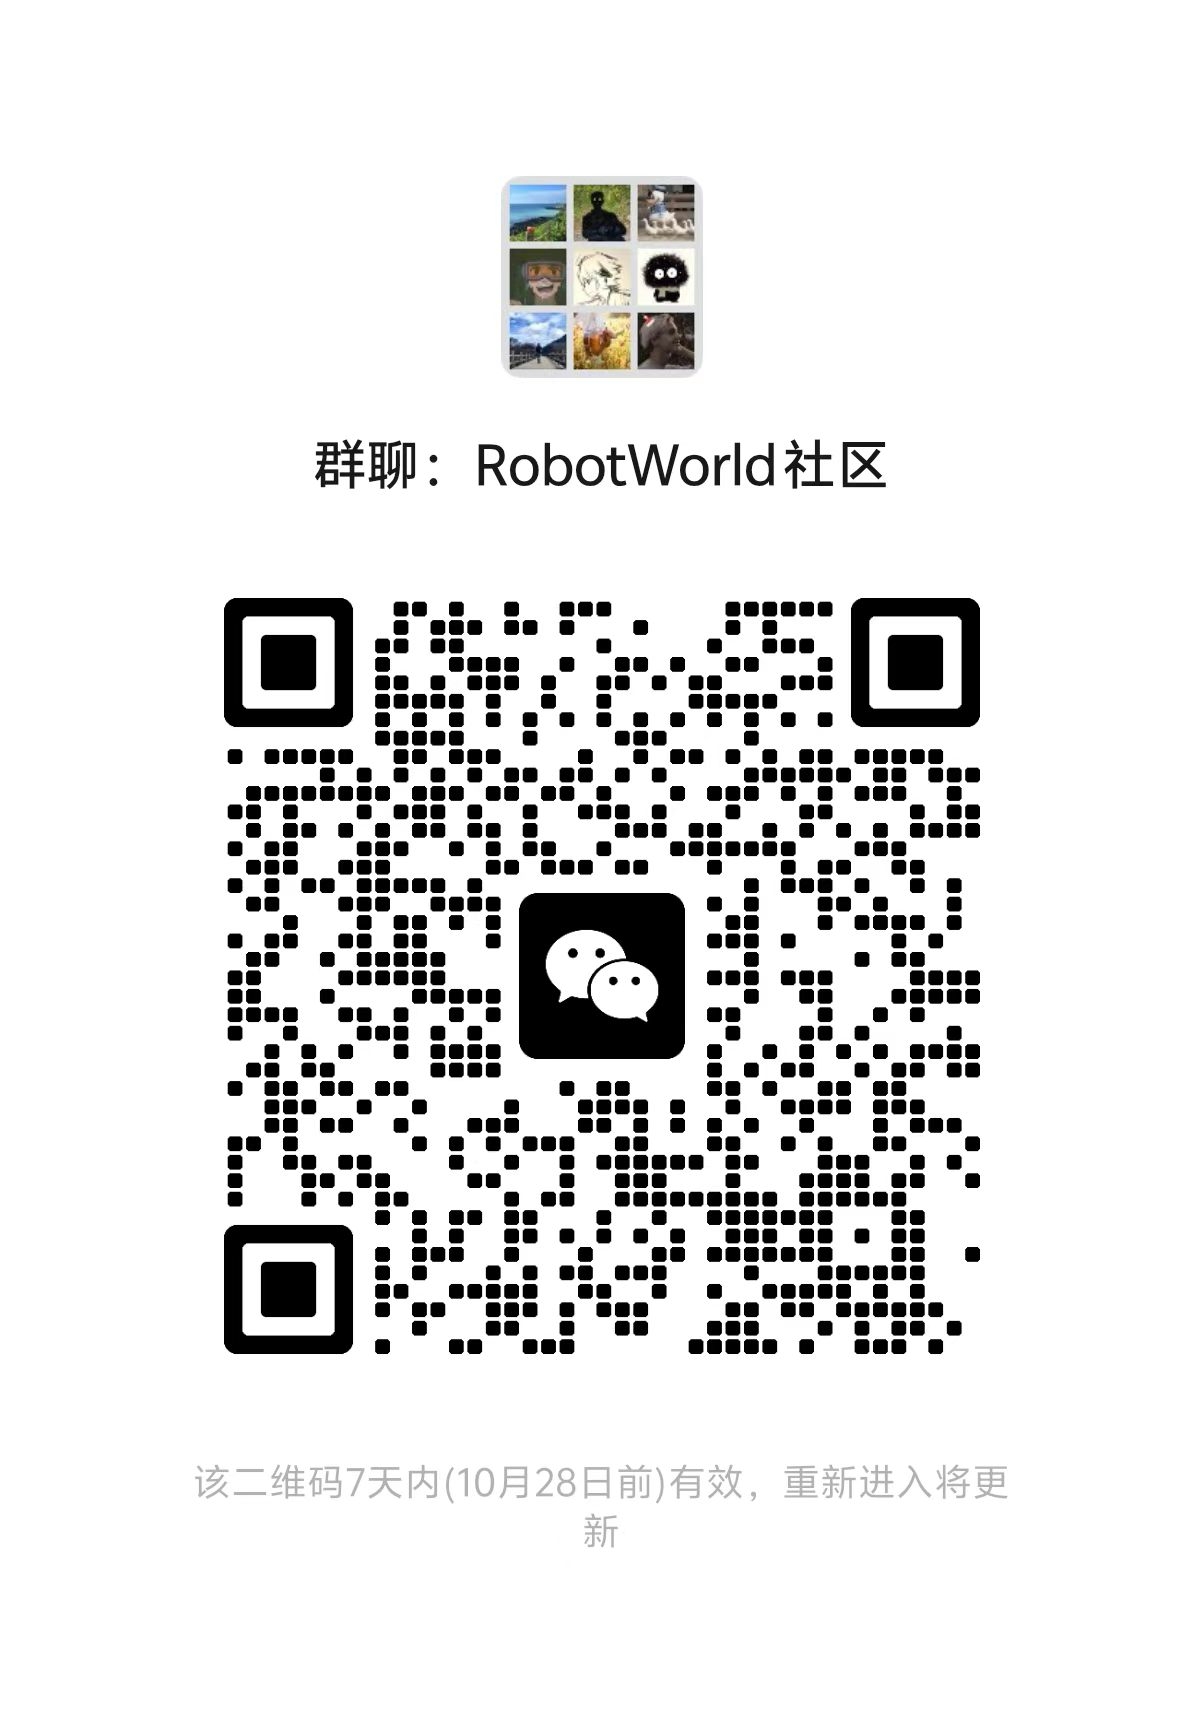
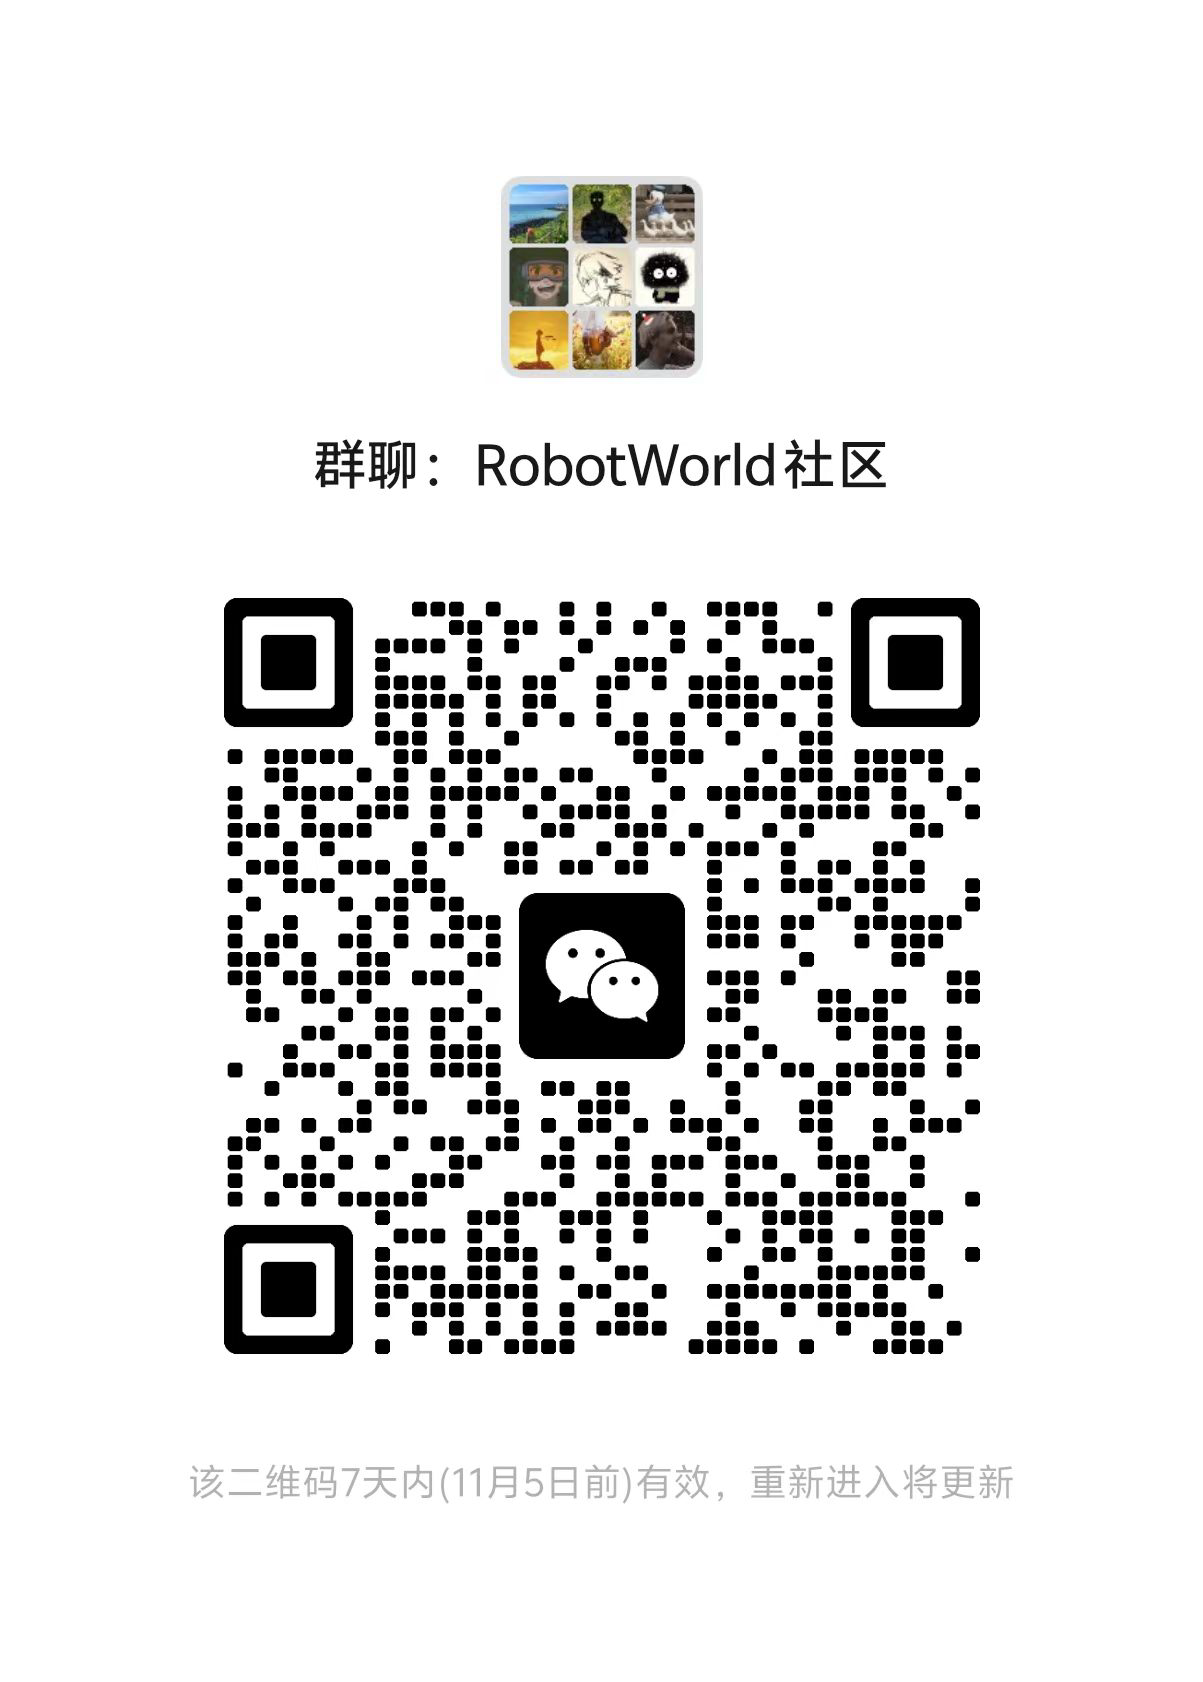
Update WeChat community QR code for November 5 expiry

diff --git a/README.md b/README.md
@@ -37,7 +37,7 @@
 <p align="center">
   <b>👇 微信扫码加入</b><br>
   <a href="docs/images/wechat-community.png"><img src="docs/images/wechat-community.png" alt="RobotWorld 微信群二维码" width="200"></a><br>
-  二维码有效期至 2026 年 10 月 28 日。无法扫码？点击图片查看原图。
+  二维码有效期：2026 年 11 月 5 日前。无法扫码？点击图片查看原图。
 </p>
 
 ---

diff --git a/README.zh-CN.md b/README.zh-CN.md
@@ -37,7 +37,7 @@
 <p align="center">
   <b>👇 微信扫码加入</b><br>
   <a href="docs/images/wechat-community.png"><img src="docs/images/wechat-community.png" alt="RobotWorld 微信群二维码" width="200"></a><br>
-  二维码有效期至 2026 年 10 月 28 日。无法扫码？点击图片查看原图。
+  二维码有效期：2026 年 11 月 5 日前。无法扫码？点击图片查看原图。
 </p>
 
 ---
